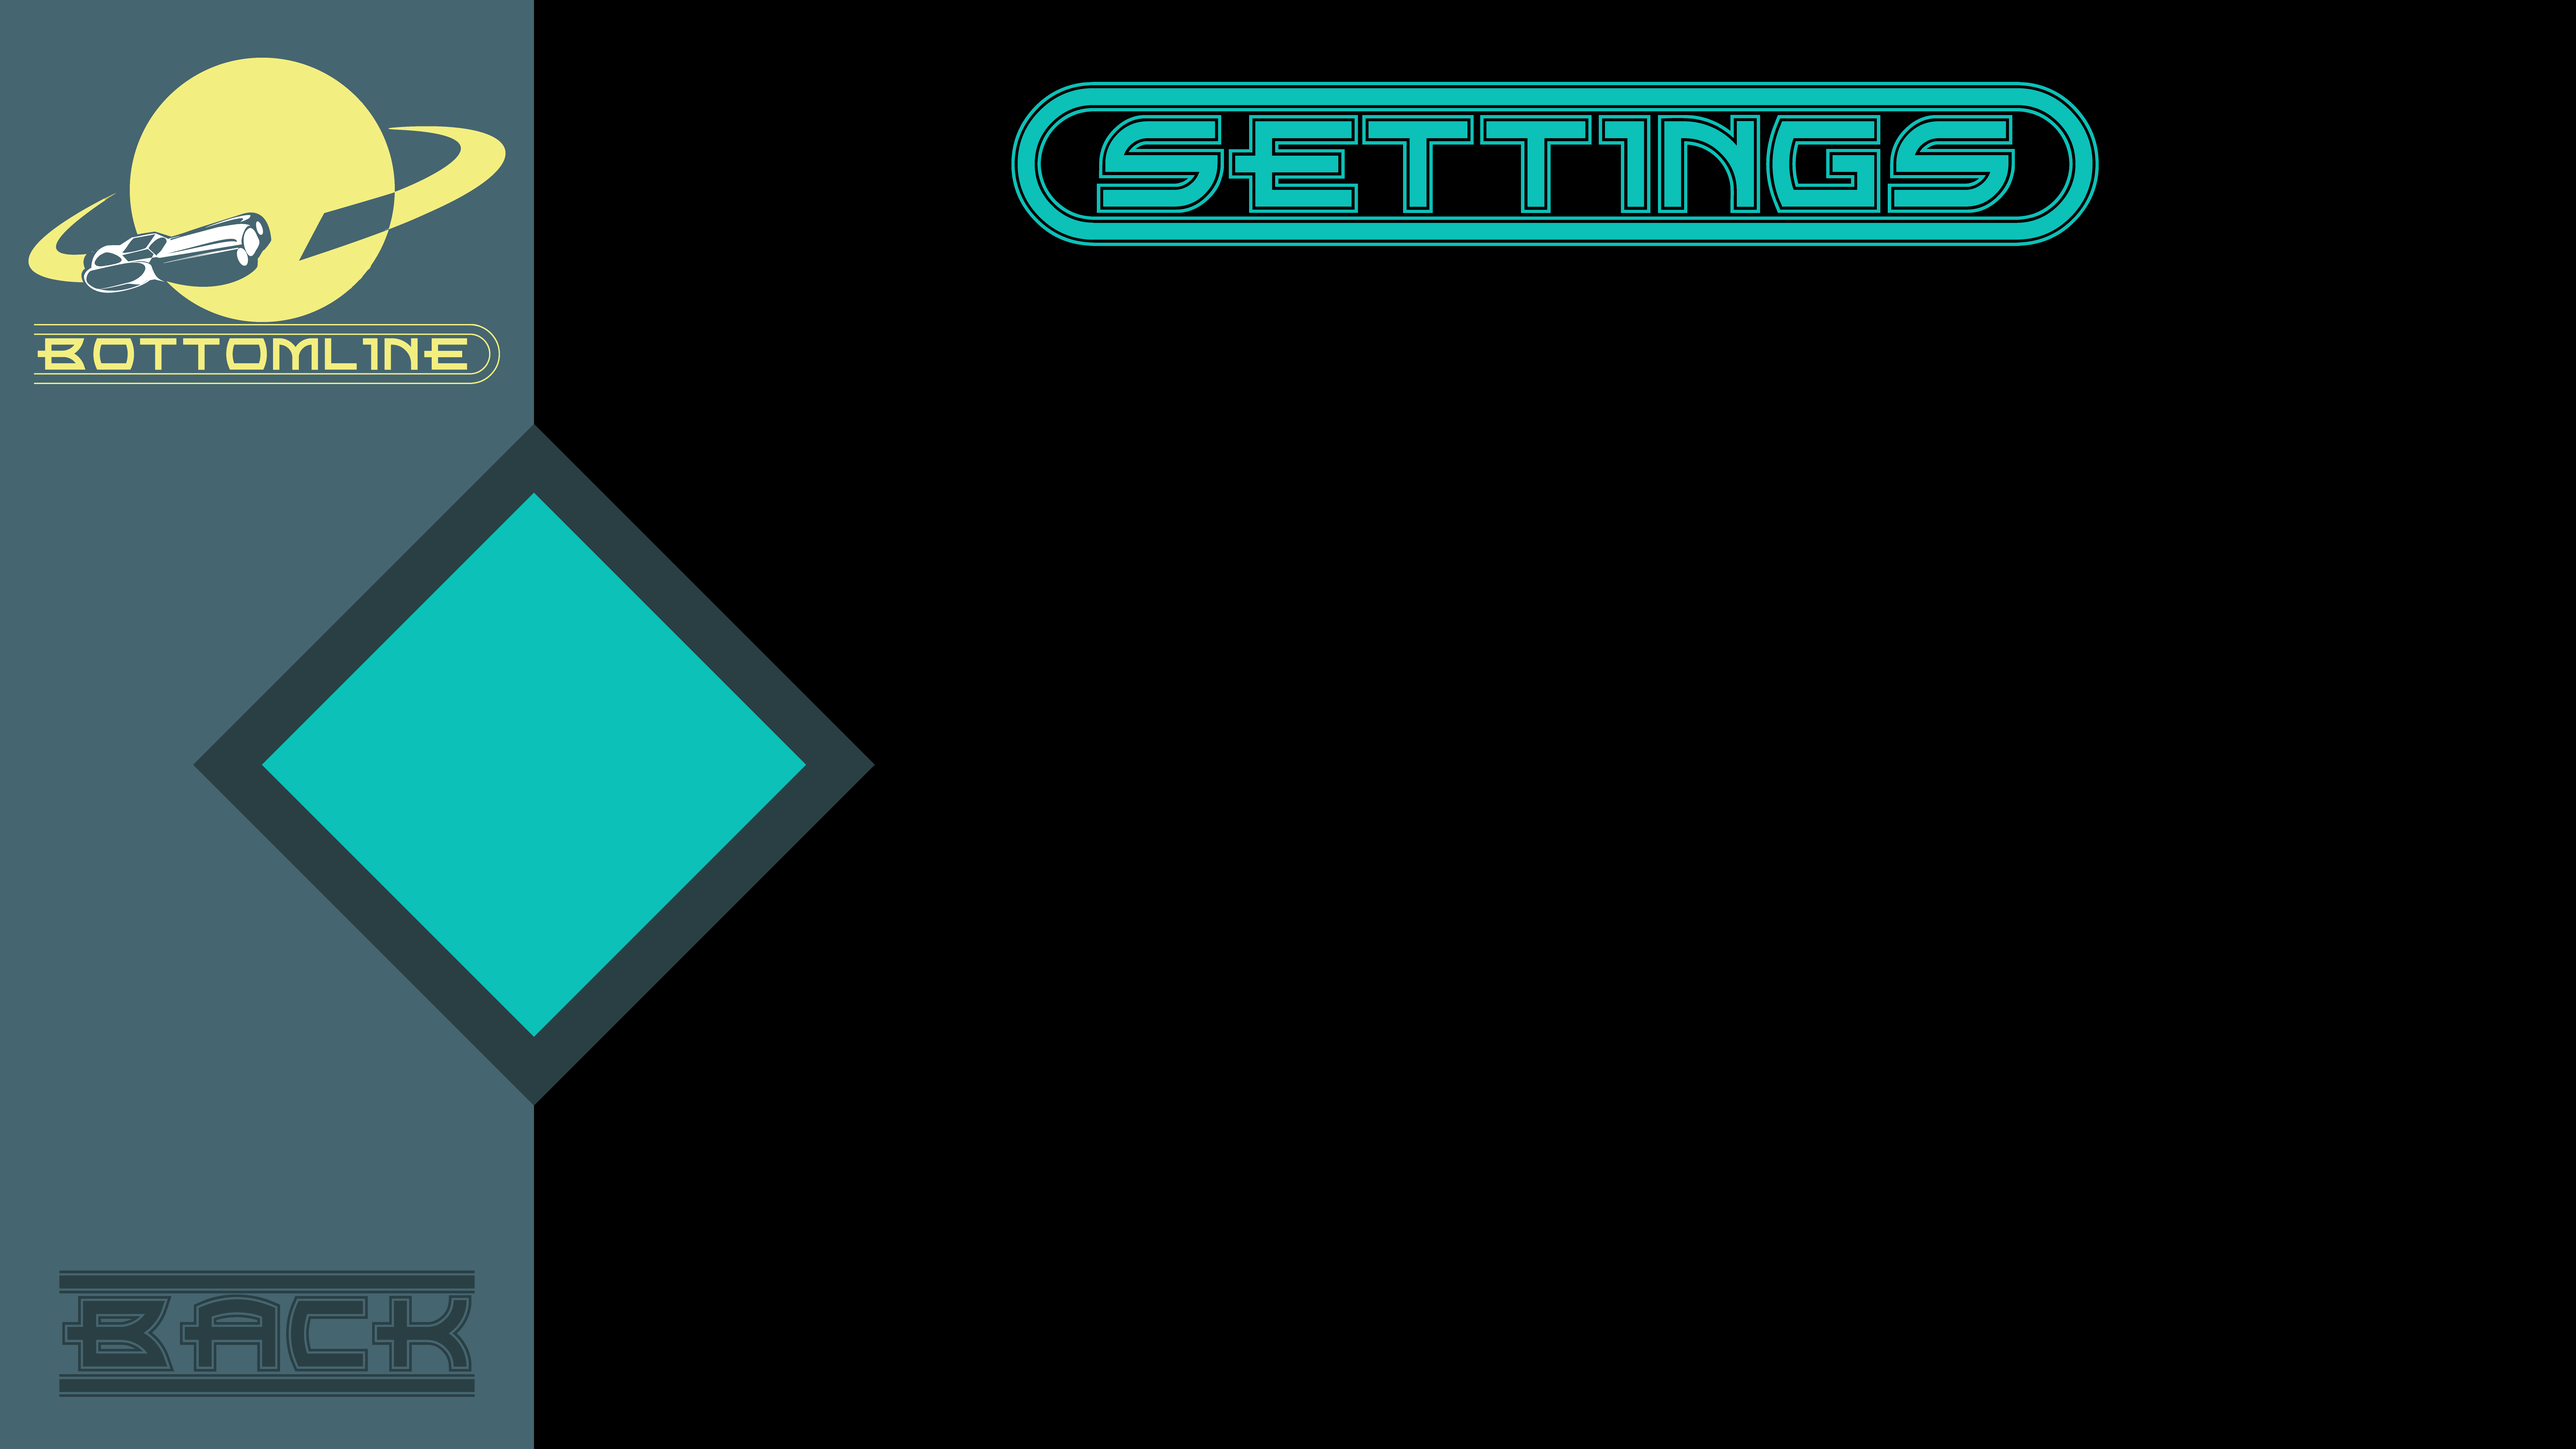
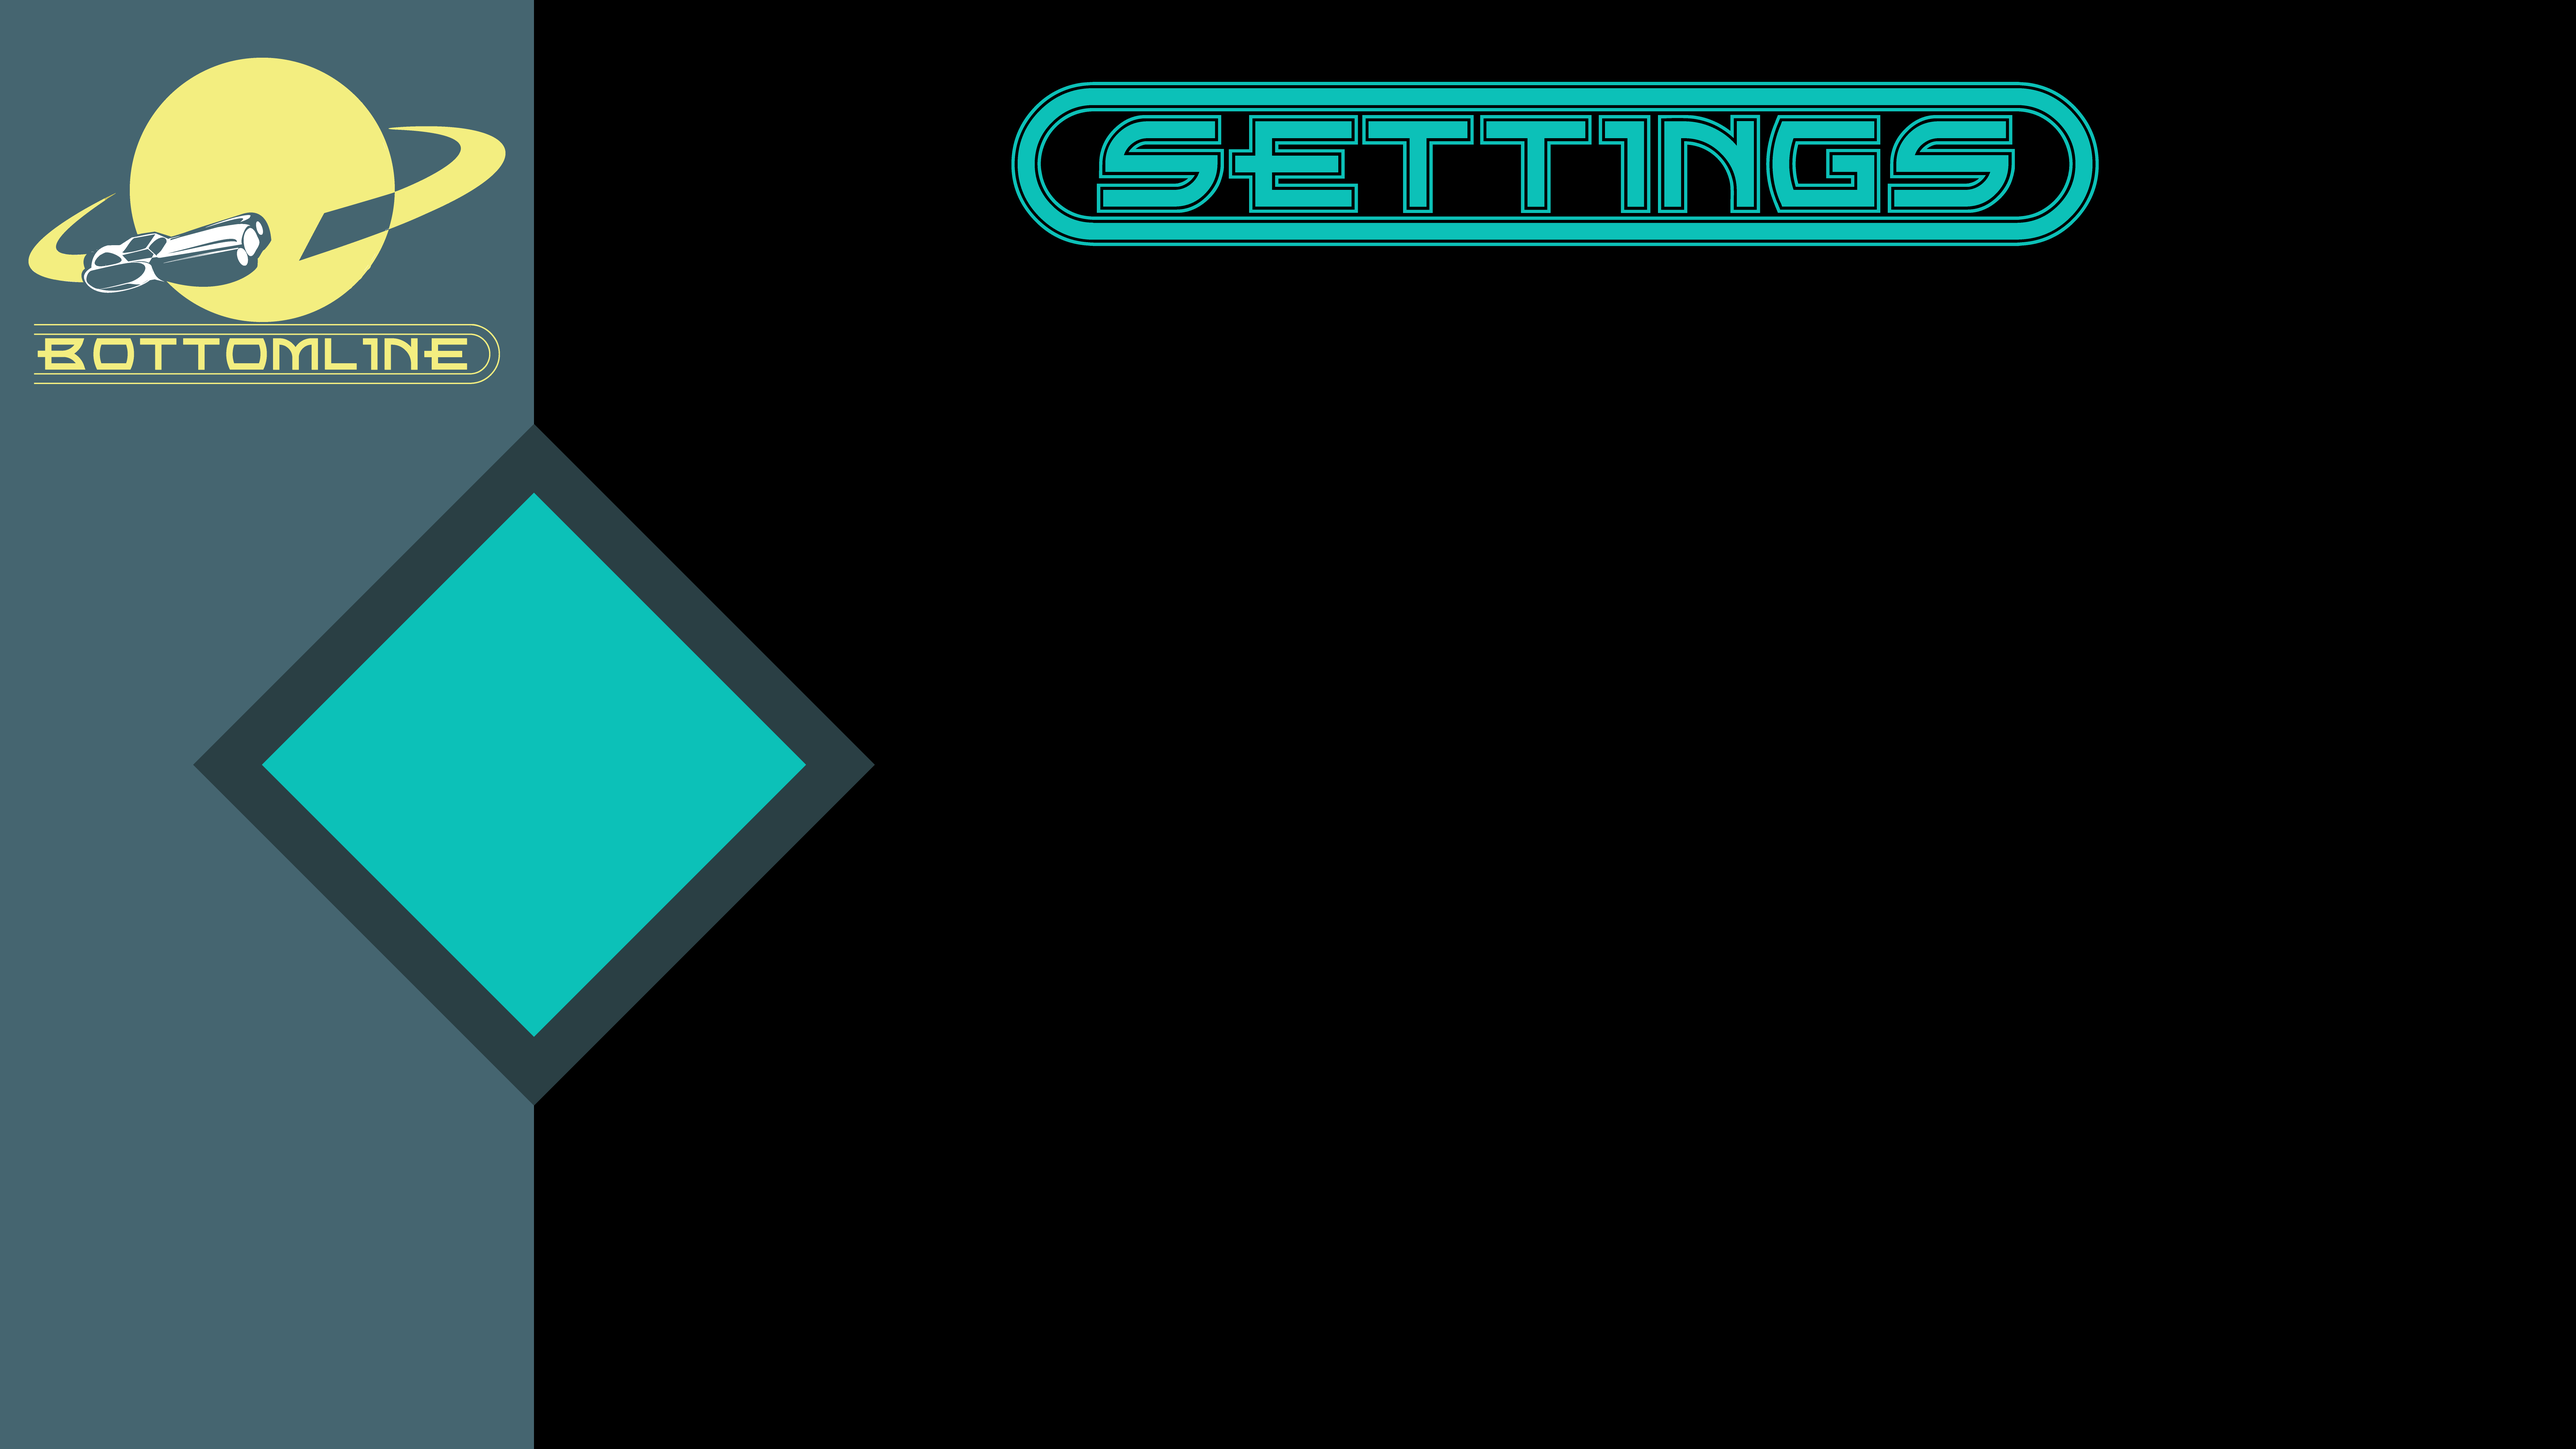
Background/Shader Changes

Changed region(s): [[0.0, 0.875, 0.1875, 0.9688]]

diff --git a/AlmostRace-Capstone/Assets/Scripts/UI/MenuScripts/SettingsMenuScript.cs b/AlmostRace-Capstone/Assets/Scripts/UI/MenuScripts/SettingsMenuScript.cs
@@ -13,13 +13,14 @@ public class SettingsMenuScript : MonoBehaviour
     private DataManager AISwitch;
 
     public Slider musicSlider;
-    public Image mSliderArrowLeft, mSliderArrowRight;
+    public Image mSliderArrowLeft, mSliderArrowRight, mSliderDiamond;
 
     public Slider soundFXSlider;
-    public Image sSliderArrowLeft, sSliderArrowRight;
+    public Image sSliderArrowLeft, sSliderArrowRight, sSliderDiamond;
 
     public Slider aISlider;
     public Text onText, offText, backText;
+    public Image aISliderDiamond;
 
     private float mSliderPrevious, sSliderPrevious;
     private bool isStart = true;
